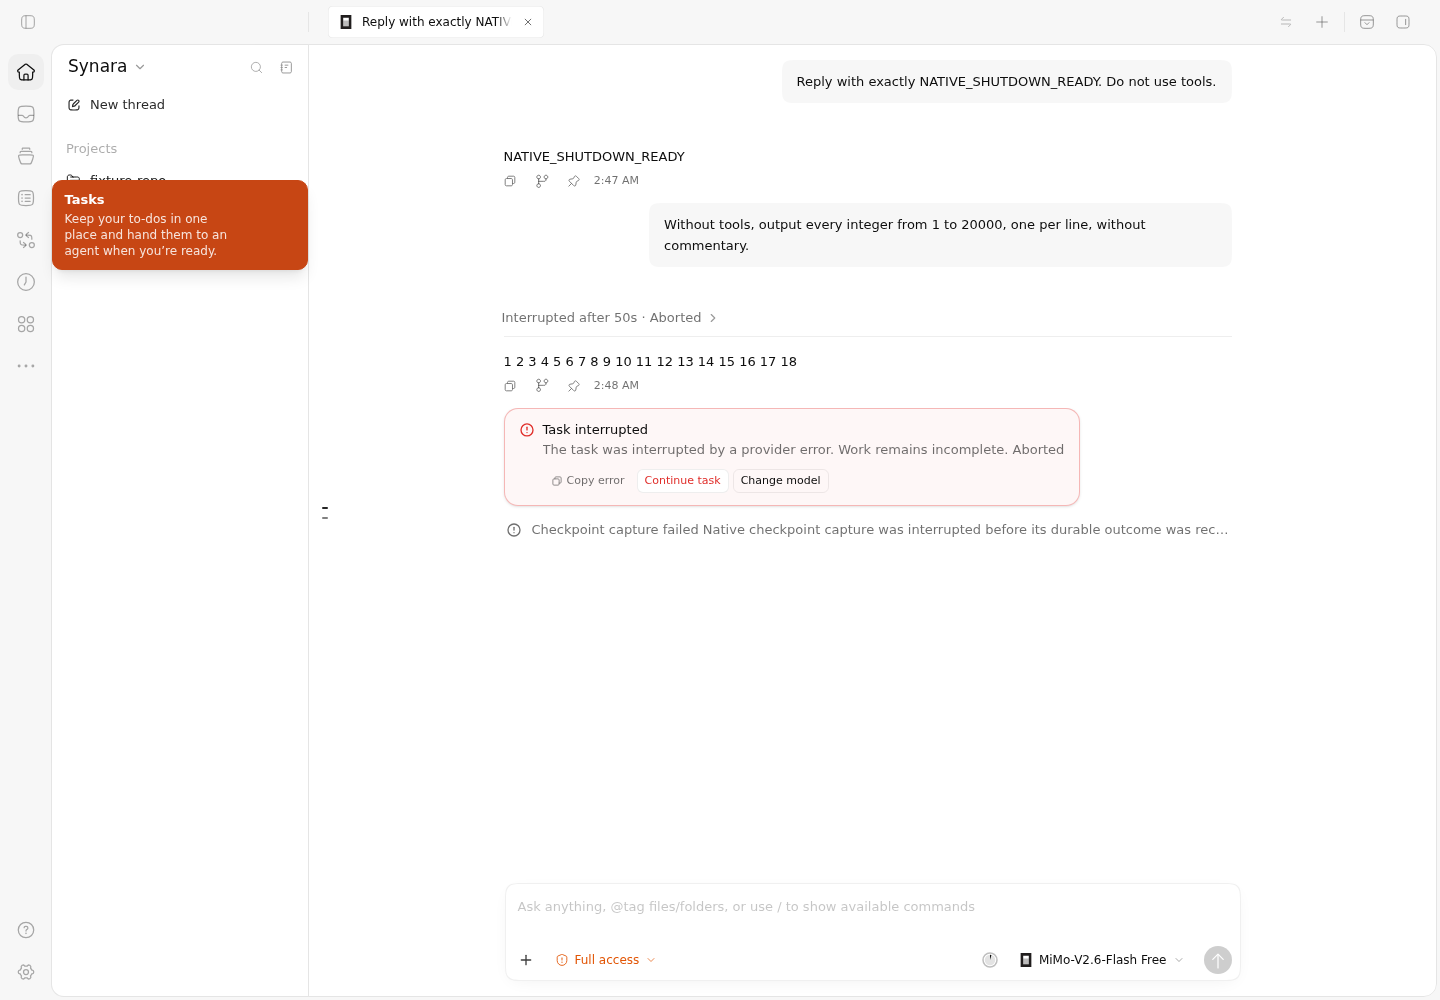
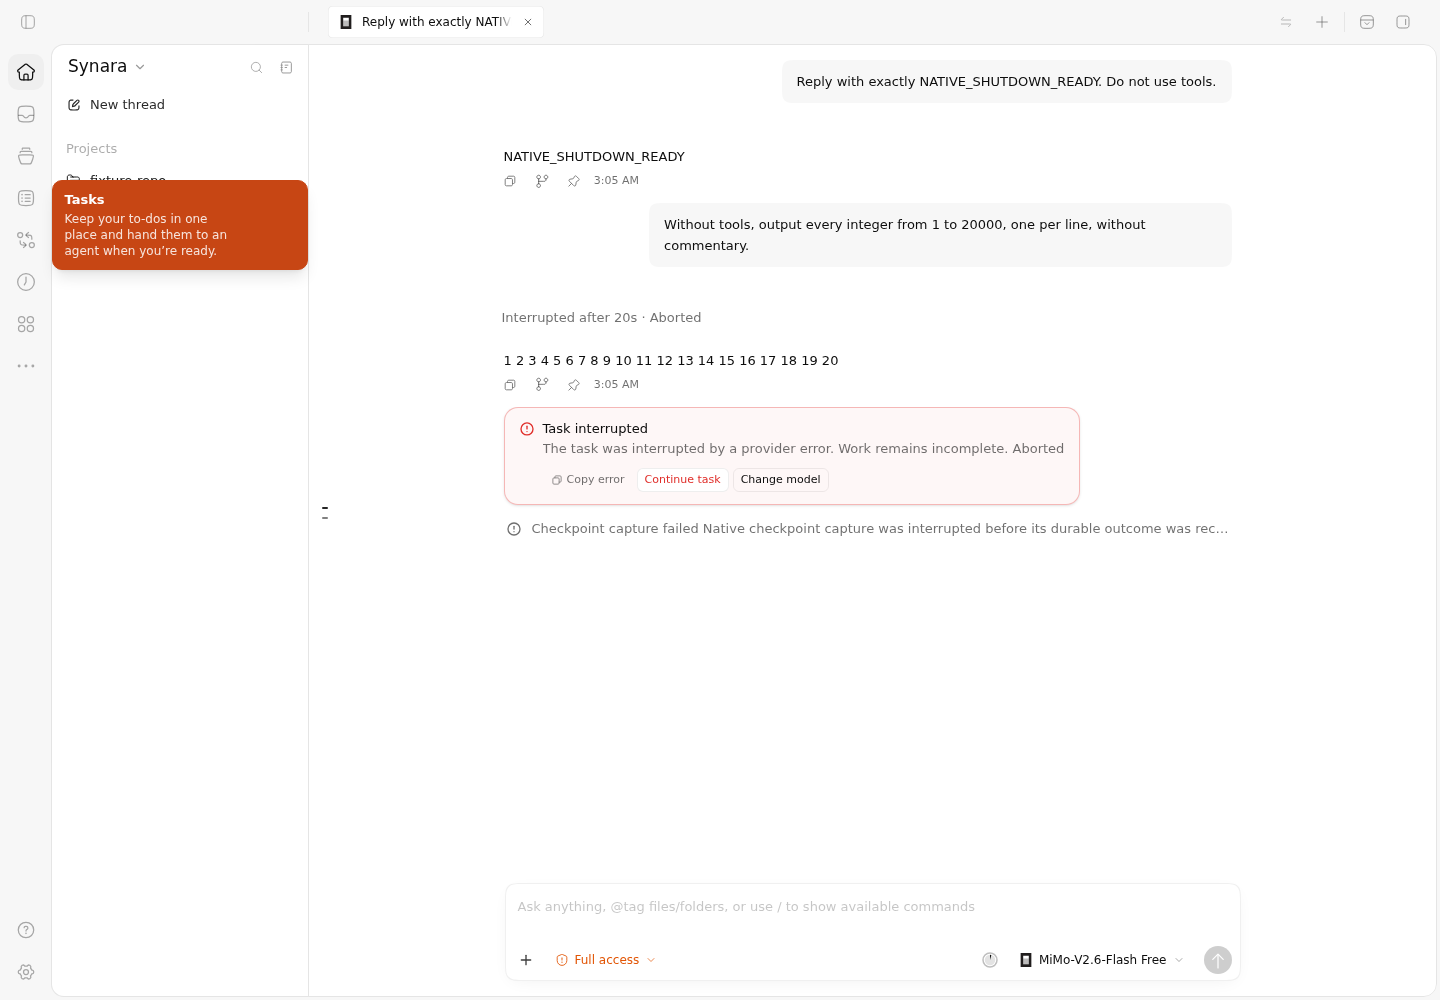
Record native shutdown restart after current-main orphan recovery integration

diff --git a/docs/verification/shutdown-native.md b/docs/verification/shutdown-native.md
@@ -15,3 +15,5 @@ OPENCODE_LIVE_BINARY=/absolute/path/to/opencode CHROMIUM_EXECUTABLE_PATH=/absolu
 This test explicitly attaches an external native CLI owned and cleaned by the test runner. It does not establish production ownership of native descendant processes, authenticated paid-provider acceptance, or packaged desktop prepareQuit behavior. Those broader #985 qualifications remain separate. No native process-cleanup receipt is inferred from the screenshots.
 
 The production web and CLI were rebuilt after integrating main `52f06318fdb3c0b4b310a8d55d0083cba0bde1a0`. The portable native shutdown/restart runner passed again on the combined source; the report, two screenshots, and raw output now belong to that rerun. The new transcript UI and actual SQLite settlement/recovery were exercised. The build used a scratch output directory to exclude concurrent workspace synchronization staging files from asset compression, then bundled that actual output into the CLI.
+
+Main advanced again to `fc6fd90c1f3854719ef83fcdb3ee7e57a8437986` with orphaned-session recovery and desktop HTTP bootstrap. After integrating it and rebuilding the CLI (web source unchanged), actual native shutdown/restart passed again; the raw output, report and captures now record this final rerun. The combined provider-command/orchestration suites pass 521 cases. The upstream isolated-process HTTP dispatcher case also passes actual HTTP requests.
